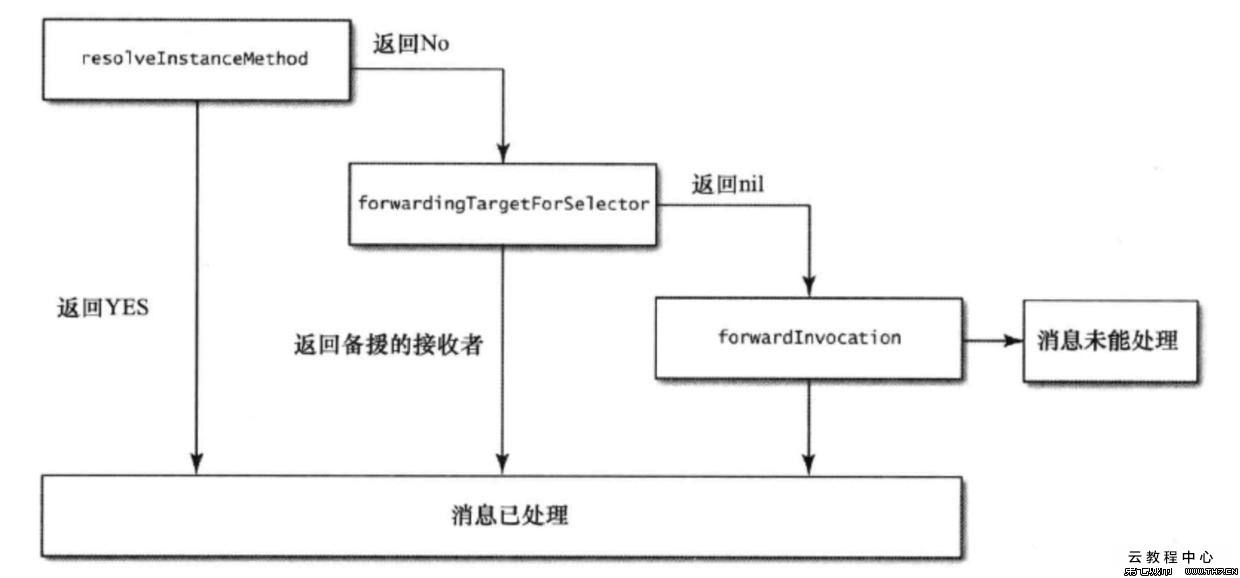
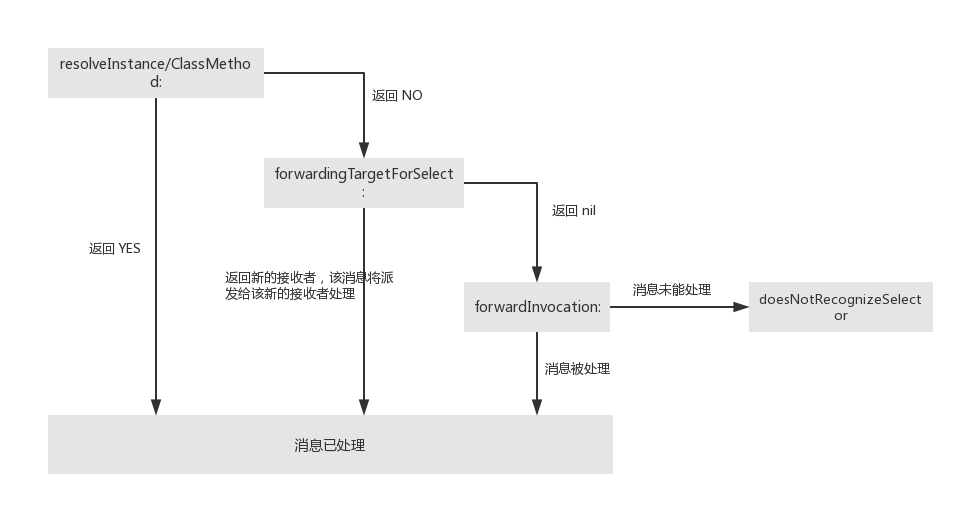
Site updated: 2018-10-22 17:47:28

diff --git a/2018/10/15/深入理解Objective-C：方法调用/index.html b/2018/10/15/深入理解Objective-C：方法调用/index.html
@@ -112,7 +112,7 @@
 <meta property="og:locale" content="default">
 <meta property="og:image" content="https://yangjie2.github.io/2018/10/15/深入理解Objective-C：方法调用/class_meta.png">
 <meta property="og:image" content="https://yangjie2.github.io/2018/10/15/深入理解Objective-C：方法调用/messageForword.png">
-<meta property="og:updated_time" content="2018-10-21T08:39:54.573Z">
+<meta property="og:updated_time" content="2018-10-22T09:33:24.213Z">
 <meta name="twitter:card" content="summary">
 <meta name="twitter:title" content="深入理解Objective-C：方法调用">
 <meta name="twitter:description" content="我们知道，Objective-C 是一门面向对象的动态语言，是C语言的超集。而 OC 之所以具有这些特性，本质上在于 Runtime 库。Runtime 由C语言和汇编语言编写，是 OC 语言的“基石”，它定义了 OC 语言的基础数据结构；类与对象的相关操作函数；方法调用、消息机制；Protocol 和 Category 等。理解 Objective-C 的 Runtime 可以帮我们更好的了解这">
@@ -367,7 +367,7 @@
                 
                   <span class="post-meta-item-text">Edited on</span>
                 
-                <time title="Modified: 2018-10-21 16:39:54" itemprop="dateModified" datetime="2018-10-21T16:39:54+08:00">2018-10-21</time>
+                <time title="Modified: 2018-10-22 17:33:24" itemprop="dateModified" datetime="2018-10-22T17:33:24+08:00">2018-10-22</time>
               
             
           </span>
@@ -464,29 +464,53 @@
 <li>如果支持GC，忽略掉非GC环境的方法（retain等）</li>
 <li>从对象的 Class 的 method_list 寻找 selector，如果找到，填充到缓存中，并返回 selector，否则</li>
 <li>寻找父类的 method_list，并依次往上寻找，直到找到 selector，填充到缓存中，并返回 selector，否则</li>
-<li>调用 _class_resolveMethod，如果可以动态 resolve 为一个 selector，不缓存，方法返回，否则</li>
+<li>调用 _class_resolveMethod，动态方法决议，若找到 selector 对应的方法实现 IMP，不缓存，方法返回，否则</li>
 <li>转发这个 selector，否则</li>
 </ul>
 </li>
 <li>报错，抛出异常</li>
 </ol>
-<p>以上便是方法调用的整个过程，下面重点说下从 _class_resolveMethod 之后的动态方法和转发过程。</p>
-<p><strong>动态方法解析</strong></p>
-<p>对象在收到无法解读的消息后，首先将调用其所属类的下列类方法：</p>
-<figure class="highlight plain"><table><tr><td class="gutter"><pre><span class="line">1</span><br></pre></td><td class="code"><pre><span class="line">+ (BOOL)resolveInstanceMethod:(SEL)sel</span><br></pre></td></tr></table></figure>
-<p>该方法的参数就是那个未知的选择子，其返回值为Boolean类型，表示这个类是否能新增一个实例方法用以处理此选择子。在继续往下执行转发机制之前，本类有机会新增一个处理此选择子的方法。加入尚未实现的方法不是实例方法而是类方法，那么运行期系统就会调用另外一个方法</p>
-<figure class="highlight plain"><table><tr><td class="gutter"><pre><span class="line">1</span><br></pre></td><td class="code"><pre><span class="line">+ (BOOL)resolveClassMethod:(SEL)sel</span><br></pre></td></tr></table></figure>
-<p>使用这种办法的前提是：相关方法的实现代码已经写好，只等着运行的时候动态插在类里面就可以了。此方案常用来实现@dynamic属性。</p>
-<p><strong>备援接收者</strong></p>
-<p>当前接收者还有第二次机会能处理未知的选择子，在这一步中，运行期系统会问它：能不能把这条消息转给其他接收者来处理。与该步骤对应的处理方法如下：</p>
-<figure class="highlight plain"><table><tr><td class="gutter"><pre><span class="line">1</span><br></pre></td><td class="code"><pre><span class="line">- (id)forwardingTargetForSelector:(SEL)aSelector</span><br></pre></td></tr></table></figure>
-<p>方法参数代表未知的选择子，若当前接收者能找到被援对象，则将其返回，若找不到就返回nil。在一个对象内部，可能还有一系列其他对象，该对象可经由此方法将能够处理某选择子的相关内部对象返回，这样的话，在外界看来，好像是该对象亲自处理了这些消息似的。</p>
+<p>以上便是方法调用的整个过程，下面重点说下<strong>动态方法决议</strong>以及<strong>消息转发</strong>。</p>
+<p><strong>动态方法决议</strong></p>
+<p>当无法从对象(类对象或实例对象)以及对象父类的 cache 和 method_list 中找到 selector 对应的 IMP 时，就会进入动态方法决议阶段，在这个阶段，如果能够提供 seltctor 的方法实现，并反回YES，则成功处理该消息，本次方法调用结束，不会再进行后续的消息转发。</p>
+<figure class="highlight plain"><table><tr><td class="gutter"><pre><span class="line">1</span><br><span class="line">2</span><br><span class="line">3</span><br><span class="line">4</span><br><span class="line">5</span><br><span class="line">6</span><br><span class="line">7</span><br><span class="line">8</span><br><span class="line">9</span><br><span class="line">10</span><br><span class="line">11</span><br><span class="line">12</span><br><span class="line">13</span><br><span class="line">14</span><br><span class="line">15</span><br><span class="line">16</span><br></pre></td><td class="code"><pre><span class="line">//Dynamically provides an implementation for a given selector for an instance method.</span><br><span class="line">+ (BOOL)resolveInstanceMethod:(SEL)sel;</span><br><span class="line"></span><br><span class="line">or</span><br><span class="line"></span><br><span class="line">//Dynamically provides an implementation for a given selector for a class method.</span><br><span class="line">+ (BOOL)resolveClassMethod:(SEL)sel;</span><br><span class="line"></span><br><span class="line"></span><br><span class="line">return value：</span><br><span class="line">YES if the method was found and added to the receiver, otherwise NO.</span><br><span class="line"></span><br><span class="line">返回 YES 表示不进行后续的消息转发，返回 NO 则表示要进行后续的消息转发。</span><br><span class="line"></span><br><span class="line">如果在该函数内为指定的 selector  提供实现，无论返回 YES 还是 NO，编译运行都是正确的；</span><br><span class="line">但如果在该函数内并不真正为 selector 提供实现，无论返回 YES 还是 NO，运行都会 crash</span><br></pre></td></tr></table></figure>
+<p><code>resolveInstanceMethod:</code> 以及 <code>resolveClassMethod:</code>允许你动态提供给定 selector 的 IMP 实现。</p>
+<p>简单的说，Objective-C 方法(method)就是至少带有两个参数：<code>self</code>、<code>_cmd</code> 的 C 函数。使用 <code>class_addMethod</code> 函数可以将 C 函数添加到某个类中作为该类的一个方法。</p>
+<p>比如有下面这样一个C函数：<br><figure class="highlight plain"><table><tr><td class="gutter"><pre><span class="line">1</span><br><span class="line">2</span><br><span class="line">3</span><br><span class="line">4</span><br></pre></td><td class="code"><pre><span class="line">void dynamicMethodIMP(id self, SEL _cmd, NSString *str)</span><br><span class="line">&#123;</span><br><span class="line">    // implementation ....</span><br><span class="line">&#125;</span><br></pre></td></tr></table></figure></p>
+<p>可以使用 resolveInstanceMethod: 动态的将这个函数添加到类中作为该类的一个方法（假设方法名为：resolveThisMethodDynamically）：</p>
+<figure class="highlight plain"><table><tr><td class="gutter"><pre><span class="line">1</span><br><span class="line">2</span><br><span class="line">3</span><br><span class="line">4</span><br><span class="line">5</span><br><span class="line">6</span><br><span class="line">7</span><br><span class="line">8</span><br><span class="line">9</span><br></pre></td><td class="code"><pre><span class="line">+ (BOOL) resolveInstanceMethod:(SEL)aSEL</span><br><span class="line">&#123;</span><br><span class="line">    if (aSEL == @selector(resolveThisMethodDynamically))</span><br><span class="line">    &#123;</span><br><span class="line">          class_addMethod([self class], aSEL, (IMP) dynamicMethodIMP, &quot;v@:@&quot;);</span><br><span class="line">          return YES;</span><br><span class="line">    &#125;</span><br><span class="line">    return [super resolveInstanceMethod:aSel];</span><br><span class="line">&#125;</span><br></pre></td></tr></table></figure>
+<p>其中 class_addMethod 的函数原型如下：<br><figure class="highlight plain"><table><tr><td class="gutter"><pre><span class="line">1</span><br></pre></td><td class="code"><pre><span class="line">BOOL class_addMethod(Class cls, SEL name, IMP imp, const char *types);</span><br></pre></td></tr></table></figure></p>
+<p>刚开始让我不太明白的是最后一个参数 types ，查阅资料后得知其是一个定义该函数返回值类型和参数类型的字符串。本例中 types 为 <code>&quot;v@:@&quot;</code>，按照顺序表示如下：<br><figure class="highlight plain"><table><tr><td class="gutter"><pre><span class="line">1</span><br><span class="line">2</span><br><span class="line">3</span><br><span class="line">4</span><br></pre></td><td class="code"><pre><span class="line">v    :   返回值为 void</span><br><span class="line">@    ：  参数id(self)</span><br><span class="line">:    :   SEL(_cmd)对象</span><br><span class="line">@    ：  参数id(str)</span><br></pre></td></tr></table></figure></p>
+<p>也就是说，types 描述了一个函数的返回值类型以及参数类型。<code>:</code> 表示 SEL 类型，<code>@</code> 表示 OC 对象类型。其他类型见下表：<br>| 符号 | 意义 |<br>| —— | —— |<br>| c | char 类型|<br>| i | int 类型|<br>| s | short 类型|<br>| l | long 类型|<br>| q | long long 类型|<br>| C | unsigned char 类型|<br>| I | unsigned int 类型|<br>| S | unsigned short 类型|<br>| L | unsigned long 类型|<br>| Q | unsigned long long 类型|<br>| f | float 类型|<br>| d | double 类型|<br>| B | C++ bool or C99 _Bool 类型|<br>| v | void 类型|<br>| <em> | character string （char </em>） 类型|</p>
+<p></p>
+<blockquote>
+<p>特别注意：<br><code>resolveInstanceMethod:</code> and <code>resolveClassMethod:</code> is called before the Objective-C forwarding mechanism is invoked. If respondsToSelector: or instancesRespondToSelector: is invoked, the dynamic method resolver is given the opportunity to provide an IMP for the given selector first.</p>
+</blockquote>
 <p><strong>消息转发</strong></p>
-<p>如果转发算法已经来到这一波的话，那么唯一能做的就是启用完整的消息转发机制了。首先创建NSInvocation对象，把与尚未处理的那条消息有关的全部细节都封于其中。在触发NSInvocation对象时，“消息派发系统”将亲自出马，把消息指派给目标对象。</p>
-<p>此步骤会调用下列方法来转发消息：            </p>
-<figure class="highlight plain"><table><tr><td class="gutter"><pre><span class="line">1</span><br></pre></td><td class="code"><pre><span class="line">-(void)forwardInvocation:(NSInvocation *)invocation</span><br></pre></td></tr></table></figure>
-<p>这个方法实现很简单：只需改变调用目标，使消息在新目标上得以调用即可。然而这样实现出来的方法与“备援接收者”方案实现的方法等效，所以很少有人采用这么简单的实现方式。        </p>
-<p>总结为一下的一张图：</p>
+<p>如果动态方法决议不能处理当前消息（返回 NO），那么就会走到消息转发阶段。</p>
+<figure class="highlight plain"><table><tr><td class="gutter"><pre><span class="line">1</span><br><span class="line">2</span><br><span class="line">3</span><br><span class="line">4</span><br><span class="line">5</span><br><span class="line">6</span><br><span class="line">7</span><br><span class="line">8</span><br><span class="line">9</span><br></pre></td><td class="code"><pre><span class="line">//Returns the object to which unrecognized messages should first be directed.</span><br><span class="line">- (id)forwardingTargetForSelector:(SEL)aSelector;</span><br><span class="line"></span><br><span class="line">Parameters：</span><br><span class="line">aSelector</span><br><span class="line">A Selector for a method that the receiver does not implement.</span><br><span class="line"></span><br><span class="line">Return Value：</span><br><span class="line">The object to which unrecognized messages should first be directed.</span><br></pre></td></tr></table></figure>
+<p>如果你在一个类实现了该方法，并返回一个非空对象（非 self），那么返回的对象作为新的消息接收对象，这条消息会重新发送给该对象。很显然，如果你在上述方法中返回 self ，代码会进入死循环。</p>
+<p>如果你在一个类（非基类）中实现了该方法，并且对于给定的 selector 没有给出返回对象，那么你应该返回超类的方法调用结果:<code>return [super forwardingTargetForSelector:aSelector]</code>。</p>
+<p>这个方法给对象一次重定向(redirect)未知消息的机会，这先于代价更高的 <code>forwardInvocation:</code> 。当你想简单的把消息重定向到另一个对象时，使用这个方法会非常有用，而且效率会比通常的消息转发 forwardInvocation 快一个数量级。</p>
+<p>如果上面的一波操作还是没能处理该消息，就会进入下面的步骤。</p>
+<figure class="highlight plain"><table><tr><td class="gutter"><pre><span class="line">1</span><br><span class="line">2</span><br><span class="line">3</span><br><span class="line">4</span><br><span class="line">5</span><br></pre></td><td class="code"><pre><span class="line">//Overridden by subclasses to forward messages to other objects.</span><br><span class="line"> -(void)forwardInvocation:(NSInvocation *)invocation</span><br><span class="line"></span><br><span class="line">Parameters:</span><br><span class="line">anInvocation : The invocation to forward.</span><br></pre></td></tr></table></figure>
+<p>如果一个对象（receiver）收到一个自己不能处理的消息（找不到对应的方法），runtime 会给这个对象一次机会将该消息委托给另外一个/多个接收者(another receivers)去处理。首先 runtime 会创建一个 <code>NSInvocation</code> 对象(它包含这个消息的完整信息)，并向 receiver 发送 <code>forwardInvocation:</code> 消息，参数为刚才创建的 NSInvocation 对象。receiver 对象的 <code>forwardInvocation:</code> 方法就可以将这个消息转发给 another receivers (如果这个对象还是不能响应该消息，它仍有机会去转发)。</p>
+<p><code>forwardInvocation:</code> 让一个对象（receiver）和另外的对象（another receivers）建立起联系，另外的对象会代其行事。所以，在某种意义上，进行转发的对象(receiver)便“继承”了将消息转发到的对象（another receivers）的某些特性。</p>
+<p><strong>注意：</strong></p>
+<blockquote>
+<p>刚才提到，当对象（receiver）不能处理某个消息（aSelector）时，runtime 在发送 <code>forwardInvocation:</code> 消息给这个对象(receiver)之前，会创建一个 NSInvocation 对象用于转发传参。但是创建 NSInvocation 对象需要的信息要从 <code>methodSignatureForSelector:</code> 中获取。所以除了 <code>forwardInvocation:</code> 之外，你还必须额外重写 <code>methodSignatureForSelector:</code> 方法来获取该 SEL 的方法签名。</p>
+</blockquote>
+<p>实现 forwardInvocation: 方法需要做两件事：</p>
+<ul>
+<li>找到一个能够响应封装在 anInvocation 中的消息的对象</li>
+<li>使用 anInvocation 将消息发送给上一步的对象，anInvocation 会保留消息处理结果，runtime 获取这个结果并发送给原始的消息接收者</li>
+</ul>
+<p>举个简单的例子：<br>一个对象仅仅将消息转发给另外一个对象（假设为 friend 实例对象），forwardInvocation: 方法的实现如下：</p>
+<figure class="highlight plain"><table><tr><td class="gutter"><pre><span class="line">1</span><br><span class="line">2</span><br><span class="line">3</span><br><span class="line">4</span><br><span class="line">5</span><br><span class="line">6</span><br><span class="line">7</span><br><span class="line">8</span><br><span class="line">9</span><br><span class="line">10</span><br><span class="line">11</span><br><span class="line">12</span><br><span class="line">13</span><br><span class="line">14</span><br><span class="line">15</span><br><span class="line">16</span><br><span class="line">17</span><br><span class="line">18</span><br><span class="line">19</span><br></pre></td><td class="code"><pre><span class="line">-(NSMethodSignature *)methodSignatureForSelector:(SEL)selector</span><br><span class="line"> &#123;</span><br><span class="line">    NSMethodSignature *signature = [super methodSignatureForSelector:selector];</span><br><span class="line">    if (! signature) &#123;</span><br><span class="line">        //生成方法签名</span><br><span class="line">        signature = [friend methodSignatureForSelector:selector];</span><br><span class="line">    &#125;</span><br><span class="line">    return signature;</span><br><span class="line">&#125;</span><br><span class="line"></span><br><span class="line">- (void)forwardInvocation:(NSInvocation *)invocation</span><br><span class="line">&#123;</span><br><span class="line">    SEL aSelector = [invocation selector];</span><br><span class="line"> </span><br><span class="line">    if ([friend respondsToSelector:aSelector])</span><br><span class="line">        [invocation invokeWithTarget:friend];</span><br><span class="line">    else</span><br><span class="line">        [super forwardInvocation:invocation];</span><br><span class="line">&#125;</span><br></pre></td></tr></table></figure>
+<p>被转发的消息必须有固定个数的参数，可变个数的参数（比如 printf()）是不支持的。</p>
+<p>被转发的消息的返回值，会被返回得到原始消息接收者，也就是 forwardInvocation: 消息的原始发送者，所有类型的返回值都支持，比如id类型，结构体，double等。</p>
+<p>NSObject 类对 forwardInvocation： 方法的实现是：简单的调用 <code>doesNotRecognizeSelector:</code>  方法，它不转发任何消息。因此，如果你没有实现 forwardInvocation：，并且给对象发送了一个不能识别的消息，就会发生异常。</p>
+<p>动态方法决议和消息转发流程可总结为下面这张图：</p>
 <img src="/2018/10/15/深入理解Objective-C：方法调用/messageForword.png">
 
       

diff --git a/index.html b/index.html
@@ -364,7 +364,7 @@
                 
                   <span class="post-meta-item-text">Edited on</span>
                 
-                <time title="Modified: 2018-10-21 16:39:54" itemprop="dateModified" datetime="2018-10-21T16:39:54+08:00">2018-10-21</time>
+                <time title="Modified: 2018-10-22 17:33:24" itemprop="dateModified" datetime="2018-10-22T17:33:24+08:00">2018-10-22</time>
               
             
           </span>

diff --git a/css/main.css b/css/main.css
@@ -1913,7 +1913,7 @@ img:hover {
   width: 4px;
   height: 4px;
   border-radius: 50%;
-  background: #dabbe9;
+  background: #d16920;
 }
 .links-of-blogroll {
   font-size: 13px;
